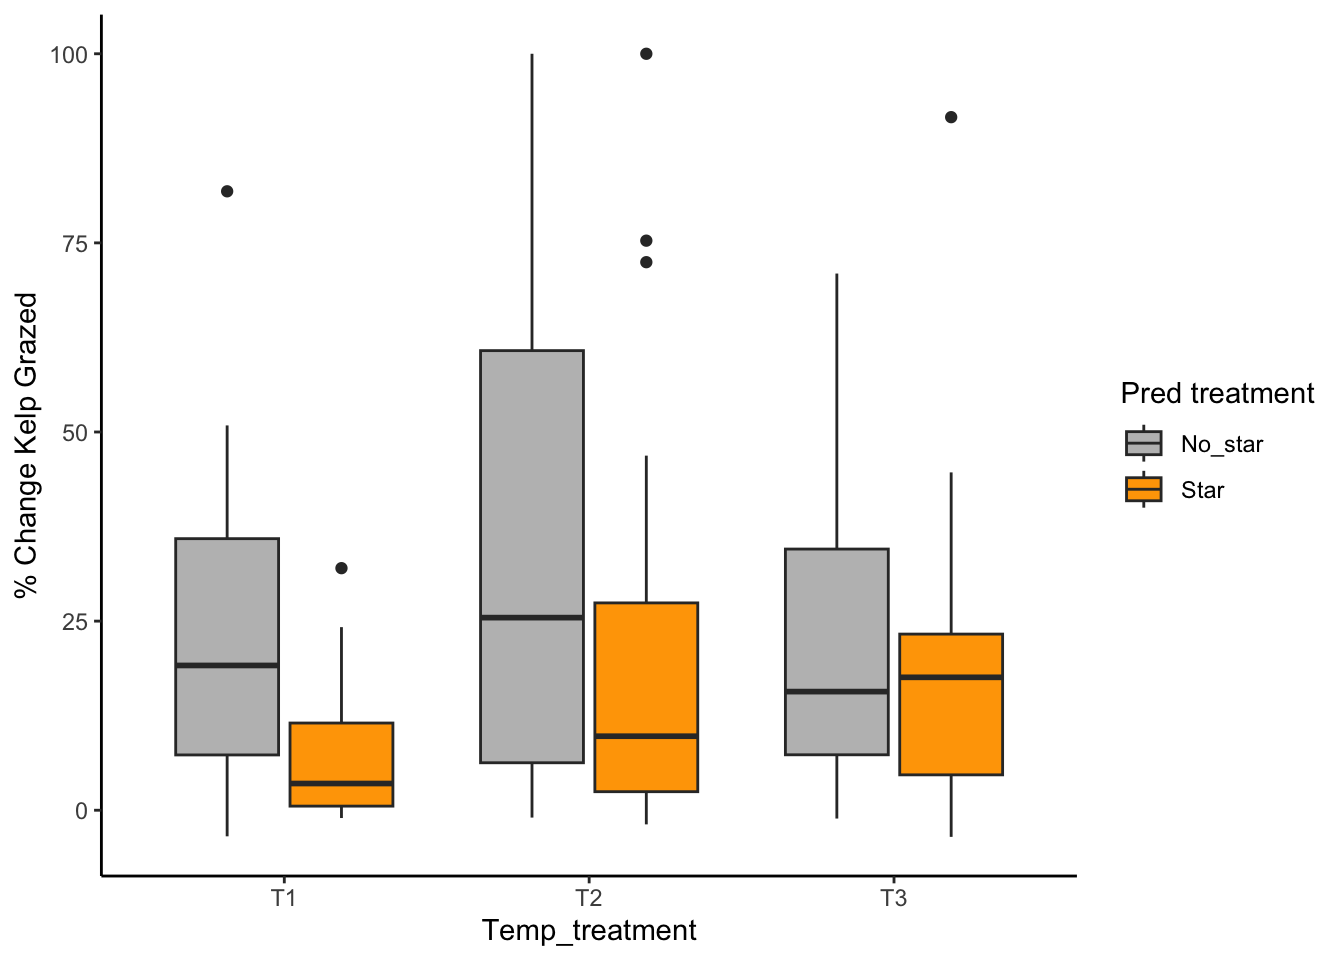
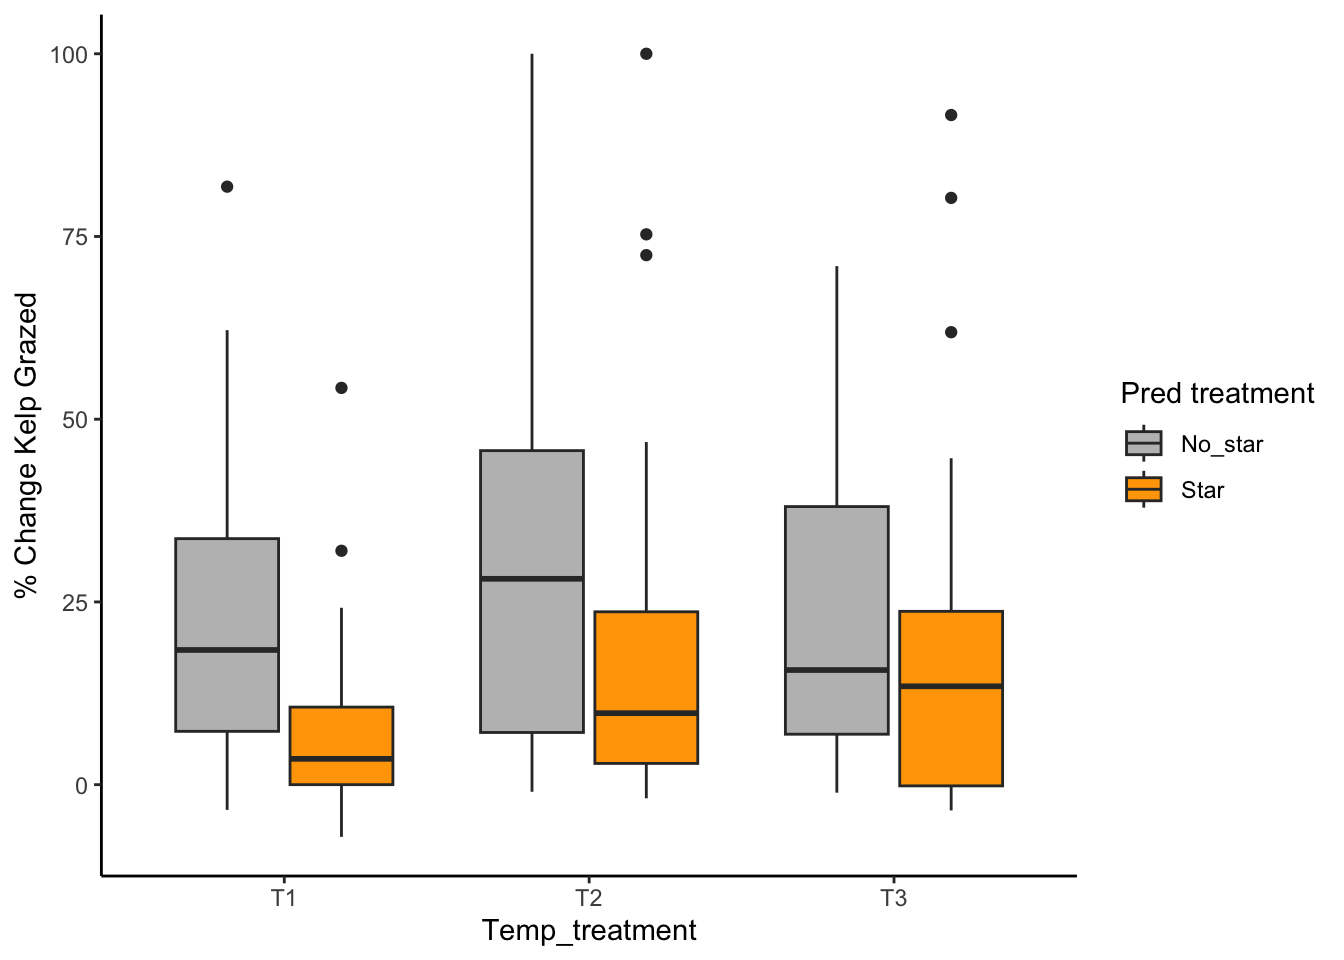
trial 3

diff --git a/docs/live_kelp.html b/docs/live_kelp.html
@@ -120,7 +120,7 @@ pre > code.sourceCode > span > a:first-child::before { text-decoration: underlin
 <span id="cb2-2"><a href="#cb2-2" aria-hidden="true" tabindex="-1"></a><span class="fu">unique</span>(<span class="fu">subset</span>(kelp_processed, <span class="sc">!</span><span class="fu">is.na</span>(pcnt_grazed))<span class="sc">$</span>Trial)</span></code><button title="Copy to Clipboard" class="code-copy-button"><i class="bi"></i></button></pre></div>
 </details>
 <div class="cell-output cell-output-stdout">
-<pre><code>[1] 1 2</code></pre>
+<pre><code>[1] 1 2 3</code></pre>
 </div>
 </div>
 </section>
